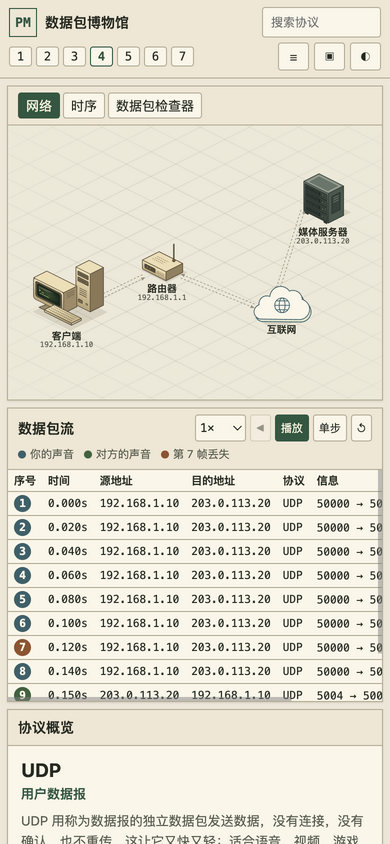
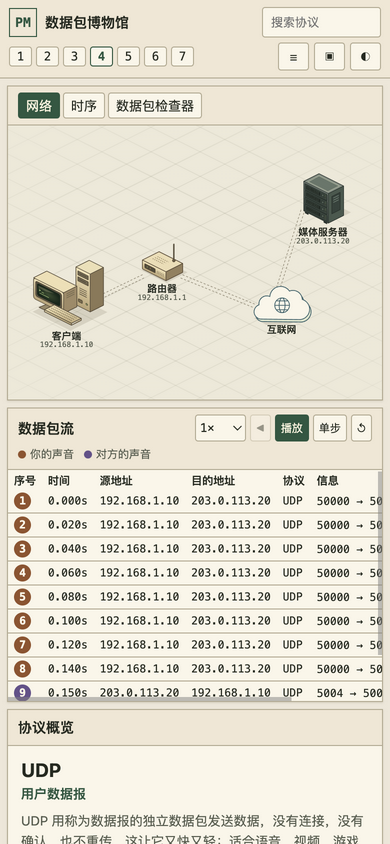
UDP 课程并发播放数据流并加入无报文总结步骤

diff --git a/src/lessons/udp/copy.js b/src/lessons/udp/copy.js
@@ -26,13 +26,15 @@ export const steps = [
     text: '对方的声音以同样的方式到达，是发往 50000 端口的一个个独立数据报。它们能进来，是因为你的路由器在转换你的地址（NAT）时记住了发出的端口。',
     facts: [['端口', '5004 → 50000'], ['方向', '与我们这边无关'], ['经过 NAT', '路由器记住端口']],
   },
+  {
+    id: 'application', title: '由应用决定', subtitle: '可靠性取决于应用',
+    text: '通话应用自己给帧编号（RTP 就做这件事），所以它看到第 7 帧缺失后，会平滑地掩盖这 20 ms 的空缺，而不是等待。等待重传会让整个通话卡顿。',
+    facts: [['顺序', '应用的职责（如 RTP）'], ['丢失', '由应用掩盖'], ['同样基于 UDP', 'DNS、游戏、QUIC']],
+  },
 ];
 
-// shortcut: the note-only fifth step shares the outro until the player supports steps without frames.
 export const outro = {
-  title: '由应用决定', subtitle: '可靠性取决于应用',
-  text: '通话应用自己给帧编号（RTP 就做这件事），所以它看到第 7 帧缺失后，会平滑地掩盖这 20 ms 的空缺，而不是等待。等待重传会让整个通话卡顿。'
-    + '音频从第一个数据包就开始了，每个数据报都独自传输，丢失的那个就这么没了：UDP 根本没注意到。应用掩盖了空缺，通话照常进行。按“重播”可以再看一遍。',
-  facts: [['顺序', '应用的职责（如 RTP）'], ['丢失', '由应用掩盖'], ['同样基于 UDP', 'DNS、游戏、QUIC'],
-    ['数据报', '11（丢失 1 个，从不重传）'], ['建立时间', '0 ms（没有握手）'], ['头部', '8 字节（TCP 为 20+）'], ['显示范围', '通话的前 0.2 秒']],
+  title: '通话继续', subtitle: '流式传输，没有等待',
+  text: '音频从第一个数据包就开始了，每个数据报都独自传输，丢失的那个就这么没了：UDP 根本没注意到。应用掩盖了空缺，通话照常进行。按“重播”可以再看一遍。',
+  facts: [['数据报', '11（丢失 1 个，从不重传）'], ['建立时间', '0 ms（没有握手）'], ['头部', '8 字节（TCP 为 20+）'], ['显示范围', '通话的前 0.2 秒']],
 };

diff --git a/src/lessons/udp/index.js b/src/lessons/udp/index.js
@@ -7,7 +7,7 @@ const nodes = [
   { id: 'internet', label: '互联网', kind: 'cloud', x: 556, y: 334 },
   { id: 'web', label: '媒体服务器', kind: 'web-server', x: 640, y: 143 },
 ].map(node => ({ ...node, address: addresses[node.id] }));
-const ranges = [[0, 1], [1, 5], [5, 8], [8, 11]];
+const ranges = [[0, 1], [1, 5], [5, 8], [8, 11], [11, 11]];
 
 export default {
   meta: { id: 'udp', title: 'UDP', subtitle: '用户数据报', group: 1, order: 9, layer: 4 },
@@ -19,13 +19,17 @@ export default {
   ],
   sequenceNodes: ['client', 'internet', 'web'],
   legend: {
-    voice: { label: '你的声音', tone: 'query' },
-    reply: { label: '对方的声音', tone: 'reply' },
-    lost: { label: '第 7 帧丢失', tone: 'referral' },
+    voice: { label: '你的声音', tone: 'referral' },
+    reply: { label: '对方的声音', tone: 'violet' },
   },
-  steps: steps.map((step, i) => ({
-    ...step, wide: true,
-    ...(i === 0 ? { closeup: ['client'] } : {}),
-    frames: frames.slice(...ranges[i]).map(frame => frame.id),
-  })),
+  steps: steps.map((step, i) => {
+    const ids = frames.slice(...ranges[i]).map(frame => frame.id);
+    return {
+      ...step, wide: true, frames: ids,
+      ...(i === 0 ? { closeup: ['client'] } : {}),
+      ...(ids.length > 1 ? { parallel: [ids] } : {}),
+      ...(i === 2 ? { events: [{ node: 'web', after: 'udp-8', time: '0.140s', text: '第 7 帧丢失 · 不重发' }] } : {}),
+      ...(i === 4 ? { events: [{ node: 'client', text: '应用掩盖了 20 ms 的空缺' }] } : {}),
+    };
+  }),
 };

diff --git a/src/lessons/udp/frames.js b/src/lessons/udp/frames.js
@@ -5,6 +5,7 @@ const clientMac = '00:00:5e:00:53:10', routerMac = '00:00:5e:00:53:01';
 const outbound = ['client', 'router', 'internet', 'web'];
 const inbound = [...outbound].reverse();
 const times = ['0.000s', '0.020s', '0.040s', '0.060s', '0.080s', '0.100s', '0.120s', '0.140s', '0.150s', '0.170s', '0.190s'];
+const start = [2350, 620, 800, 980, 1160, 620, 800, 980, 620, 800, 980];
 const lossNote = '第 7 帧丢失 · 不重发';
 
 export const frames = times.map((time, i) => {
@@ -18,13 +19,13 @@ export const frames = times.map((time, i) => {
   const ip = ipv4({ src, dst, protocol: 17, payload, id: (reply ? 0x9ec8 : 0xd825) + n,
     ttl: reply ? 52 : 128, flags: reply ? 0x4000 : 0 });
   return {
-    id: `udp-${i + 1}`, path: reply ? inbound : lost ? outbound.slice(0, -1) : outbound,
+    id: `udp-${i + 1}`, path: reply ? inbound : outbound,
     bytes: ethernet({ src: reply ? routerMac : clientMac, dst: reply ? clientMac : routerMac, payload: ip }),
     time, protocol: 'UDP', summary: `${srcPort} → ${dstPort} 长度=92`,
-    category: lost ? 'lost' : reply ? 'reply' : 'voice',
+    category: reply ? 'reply' : 'voice',
     badge: i === 0 ? ['UDP 50000 → 5004', '92 B 音频，无需建立'] : lost ? ['语音 7', lossNote] : [`${reply ? '对方语音' : '语音'} ${n + 1}`],
     ...(lost ? { outcome: 'dropped' } : {}),
-    leadMs: i === 0 ? 2350 : i === 5 || i === 8 ? 740 : 180,
+    leadMs: start[i],
     holdMs: i === 0 || lost || i === 10 ? 1050 : 220,
   };
 });
